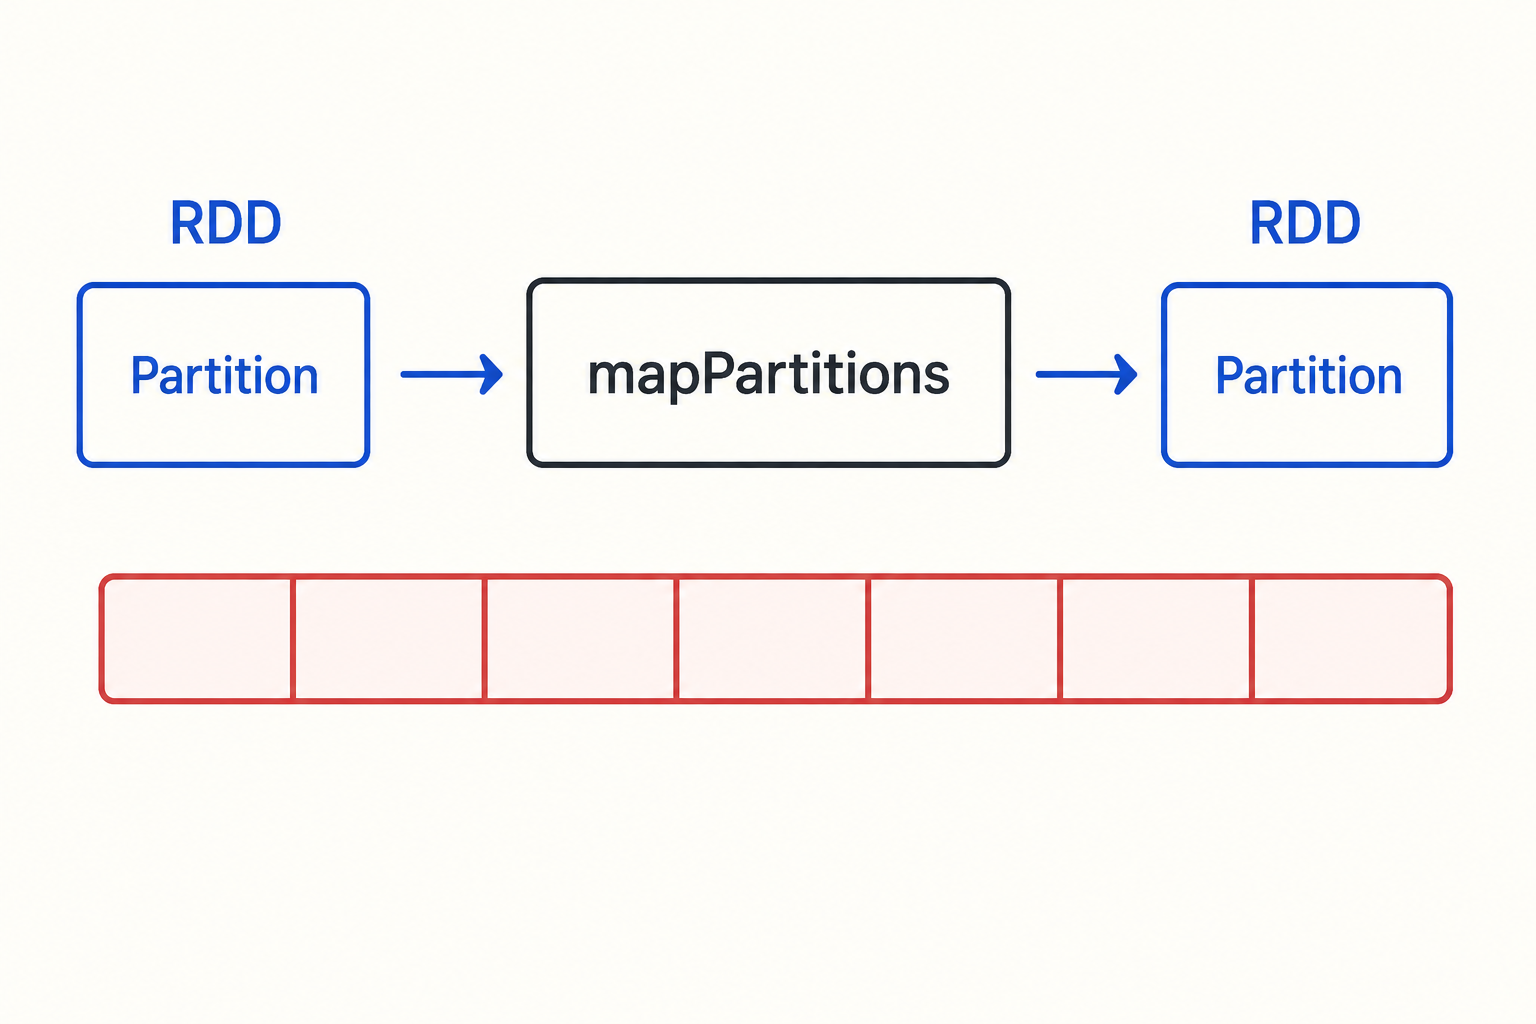
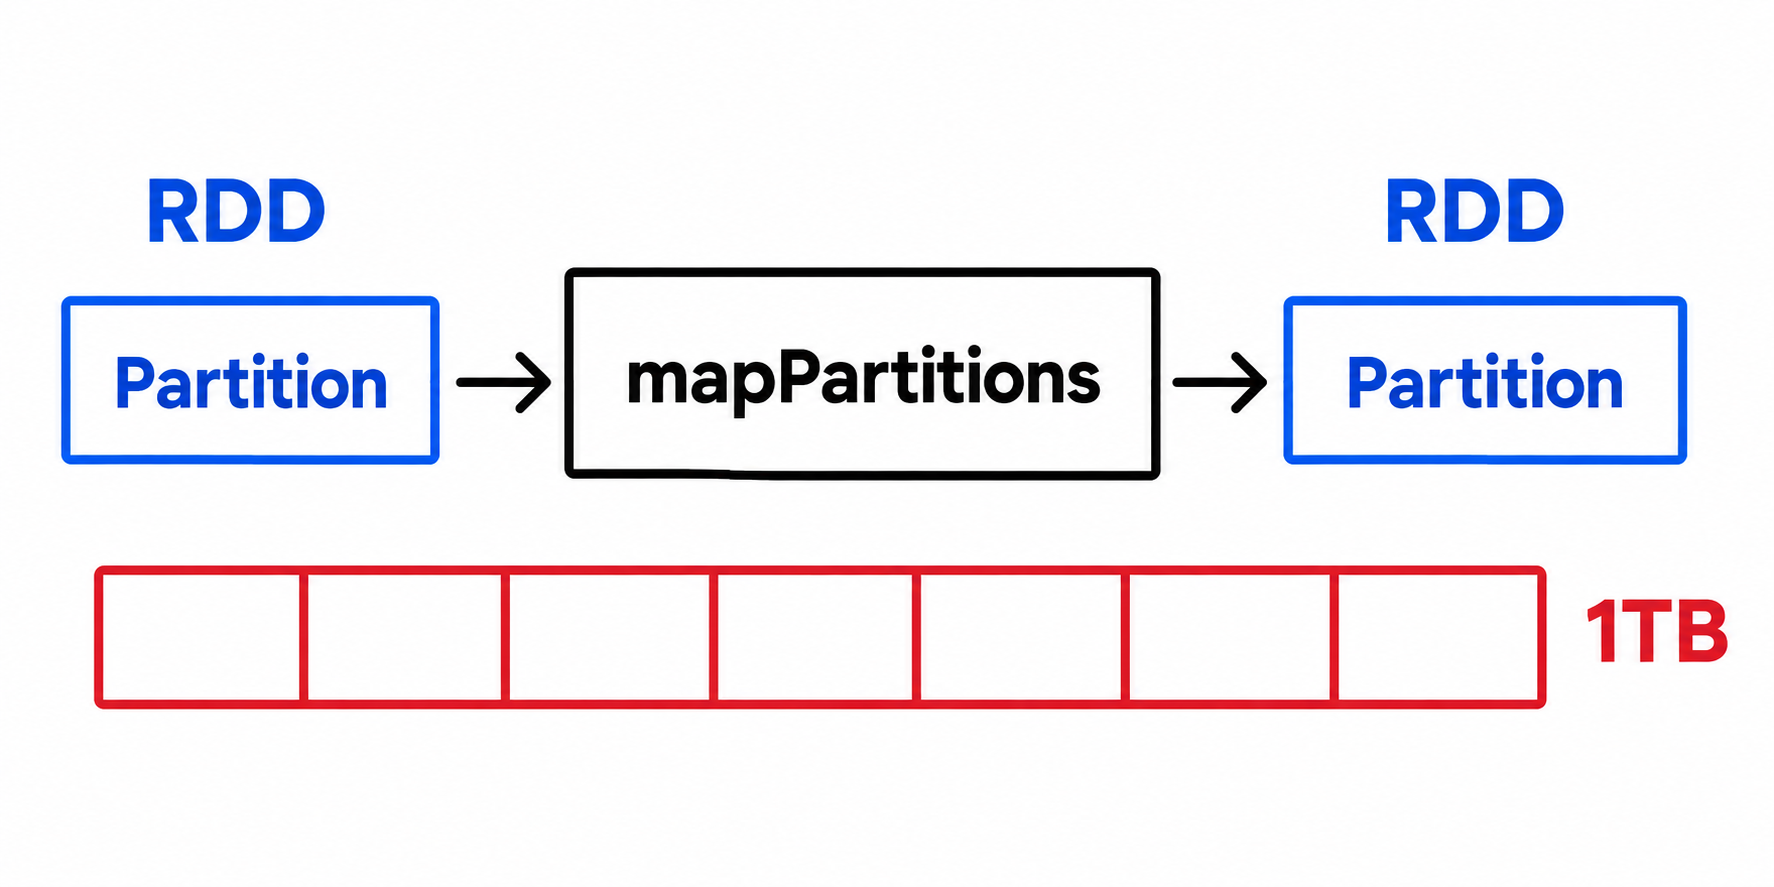
Repair mapPartitions diagram annotation

Changed region(s): [[0.0312, 0.1826, 1.0, 0.8219]]

diff --git a/cohorts/2027/06-batch/2026-09-09-follow-up-provenance.md b/cohorts/2027/06-batch/2026-09-09-follow-up-provenance.md
@@ -1,0 +1,15 @@
+# 06-batch illustration follow-up provenance — 2026-09-09
+
+This ledger records the strict follow-up repairs for the 06-batch
+illustrations. Each imagegen repair uses the original non-crisp JPG as the
+factual source and a bounded crop as the composition/detail reference. The
+published output is inspected at native resolution and at a proportional
+608px-wide lesson render before it is committed. Originals and crops remain
+preserved.
+
+## MapPartitions diagram
+
+| Published target | Original JPG SHA-256 | Bounded crop SHA-256 | Published output SHA-256 | Imagegen output | Validation |
+|---|---|---|---|---|---|
[1 lines of base64/hex data omitted]
+
